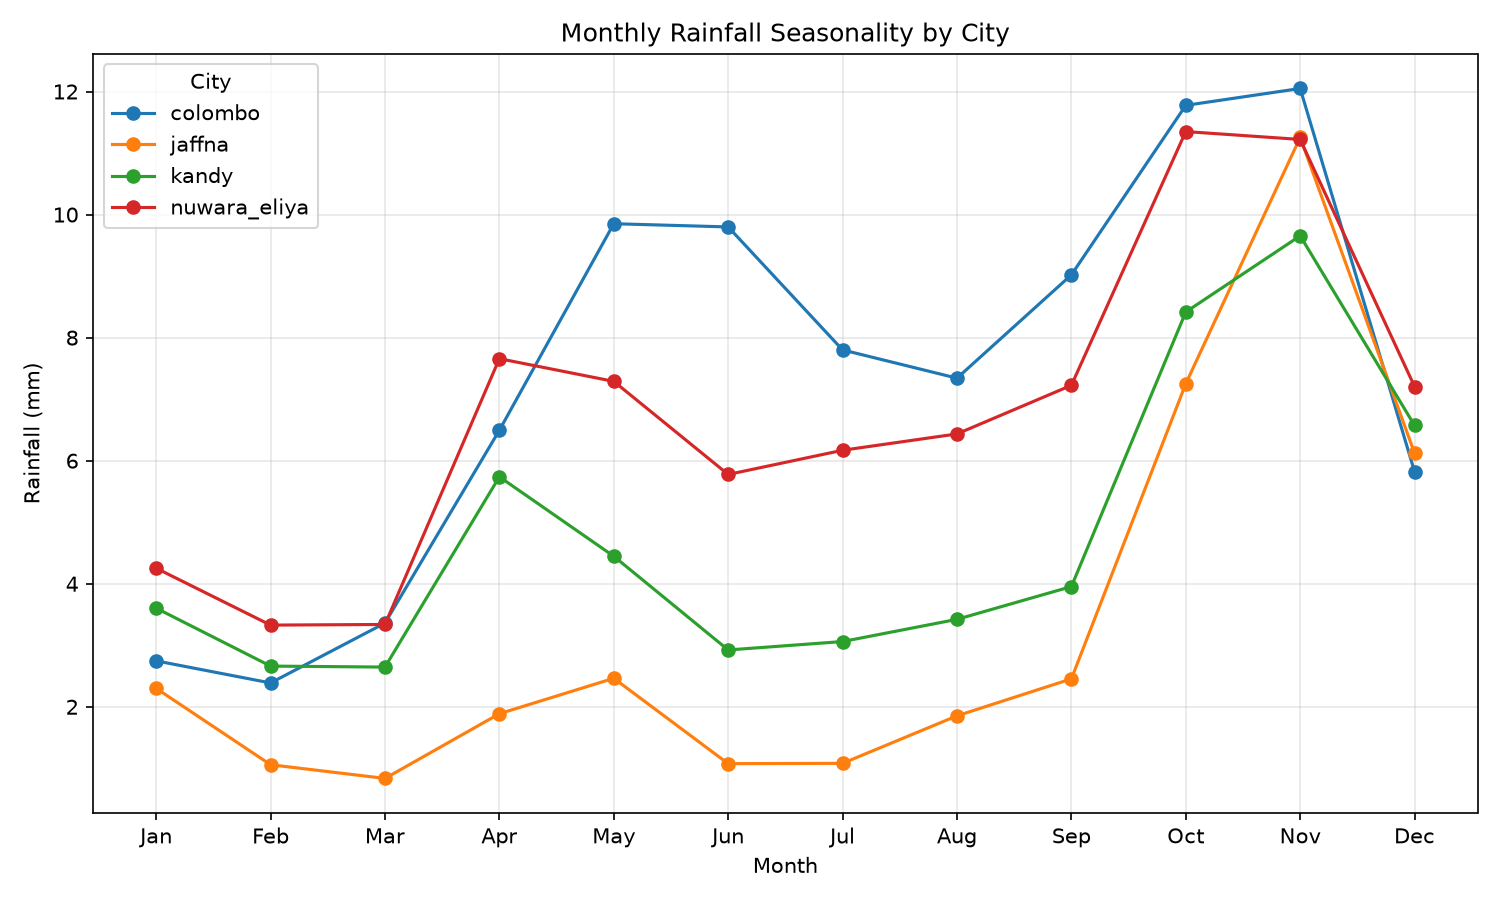
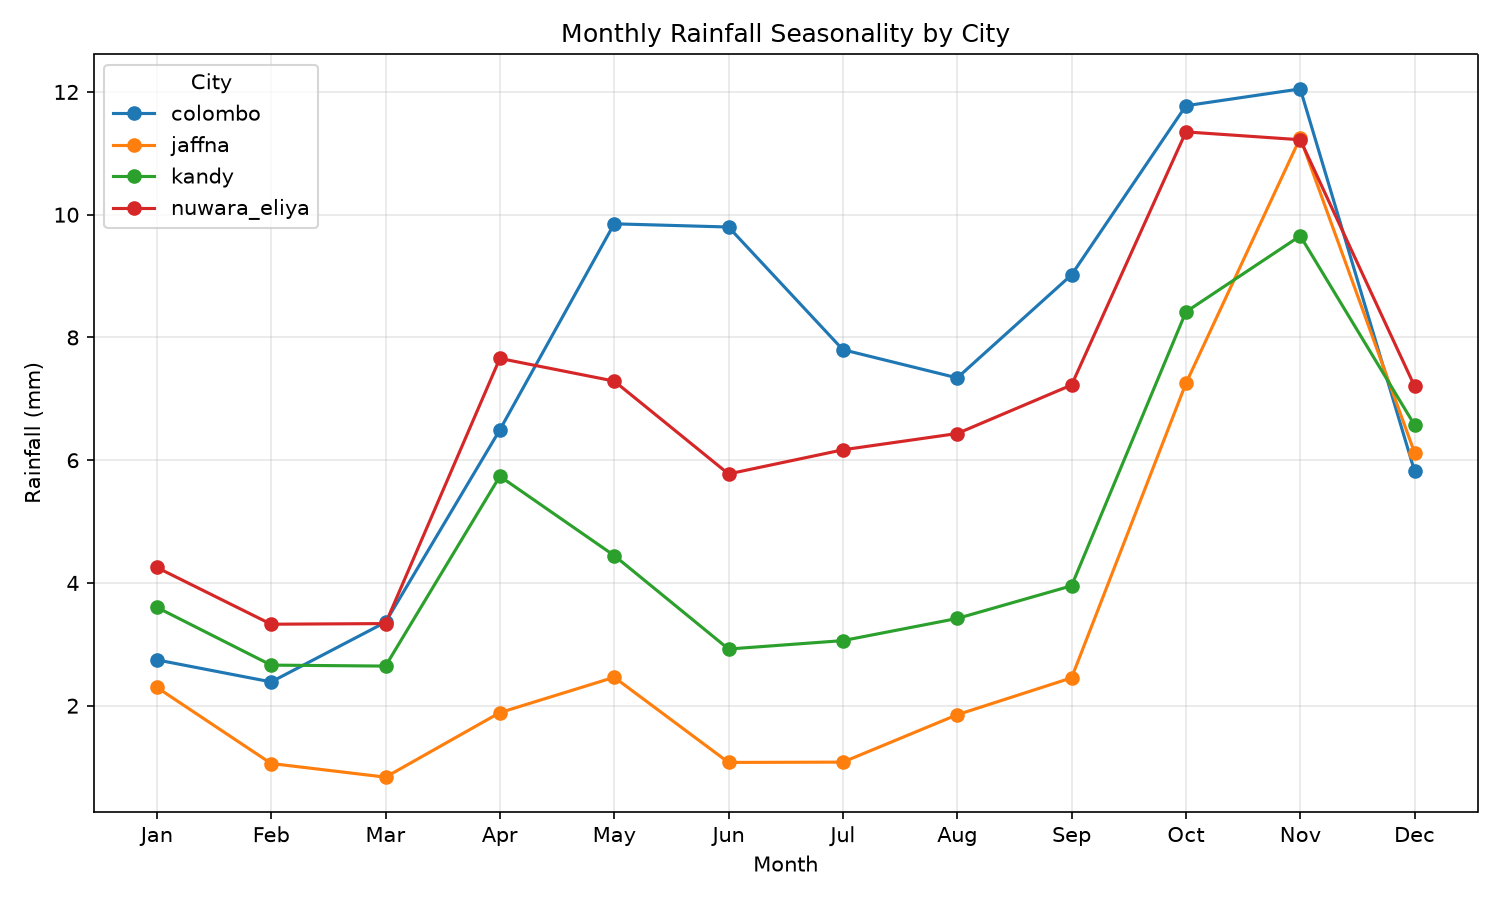
day_four_changes

diff --git a/scripts/data_process.py b/scripts/data_process.py
@@ -56,3 +56,55 @@ ax.grid(True, alpha=0.3)
 plt.tight_layout()
 plt.savefig(FIG_DIR / "rainfall_seasonality.png", dpi=150)
 plt.show()
+
+thresholds = {}
+
+for city in df['city'].unique():
+    city_data = df[df['city'] == city]
+    temp_threshold = city_data['temperature_2m_max'].quantile(0.95)
+    rain_threshold = city_data['precipitation_sum'].quantile(0.95)
+    thresholds[city] = {'heat': temp_threshold, 'rain': rain_threshold}
+
+print(thresholds)
+
+df["year"] = df["date"].dt.year
+
+df["is_extreme_heat"] = df.apply(lambda row: row["temperature_2m_max"] > thresholds[row["city"]]["heat"], axis=1)
+df["is_extreme_rain"] = df.apply(lambda row: row["precipitation_sum"] > thresholds[row["city"]]["rain"], axis=1)
+
+extreme_counts = df.groupby(["city", "year"])[["is_extreme_heat", "is_extreme_rain"]].sum().reset_index()
+
+print(extreme_counts.head())
+
+heat_wide = extreme_counts.pivot(index="year", columns="city", values="is_extreme_heat")
+
+fig, ax = plt.subplots(figsize=(12, 6))
+for city in heat_wide.columns:
+    ax.plot(heat_wide.index, heat_wide[city], marker="o", markersize=3, label=city)
+
+ax.set_xlabel("Year")
+ax.set_ylabel("Number of Extreme Heat Days")
+ax.set_title("Extreme Heat Days per Year by City (>95th percentile)")
+ax.legend(title="City")
+ax.grid(True, alpha=0.3)
+plt.tight_layout()
+plt.savefig(FIG_DIR / "extreme_heat_trend.png", dpi=150)
+plt.show()
+
+rain_wide = extreme_counts.pivot(index="year", columns="city", values="is_extreme_rain")
+
+fig, ax = plt.subplots(figsize=(12, 6))
+for city in rain_wide.columns:
+    ax.plot(rain_wide.index, rain_wide[city], marker="o", markersize=3, label=city)
+
+ax.set_xlabel("Year")
+ax.set_ylabel("Number of Extreme Rain Days")
+ax.set_title("Extreme Rain Days per Year by City (>95th percentile)")
+ax.legend(title="City")
+ax.grid(True, alpha=0.3)
+plt.tight_layout()
+plt.savefig(FIG_DIR / "extreme_rain_trend.png", dpi=150)
+plt.show()
+
+
+extreme_counts.to_csv(DATA_DIR / "extreme_day_counts.csv", index=False)
